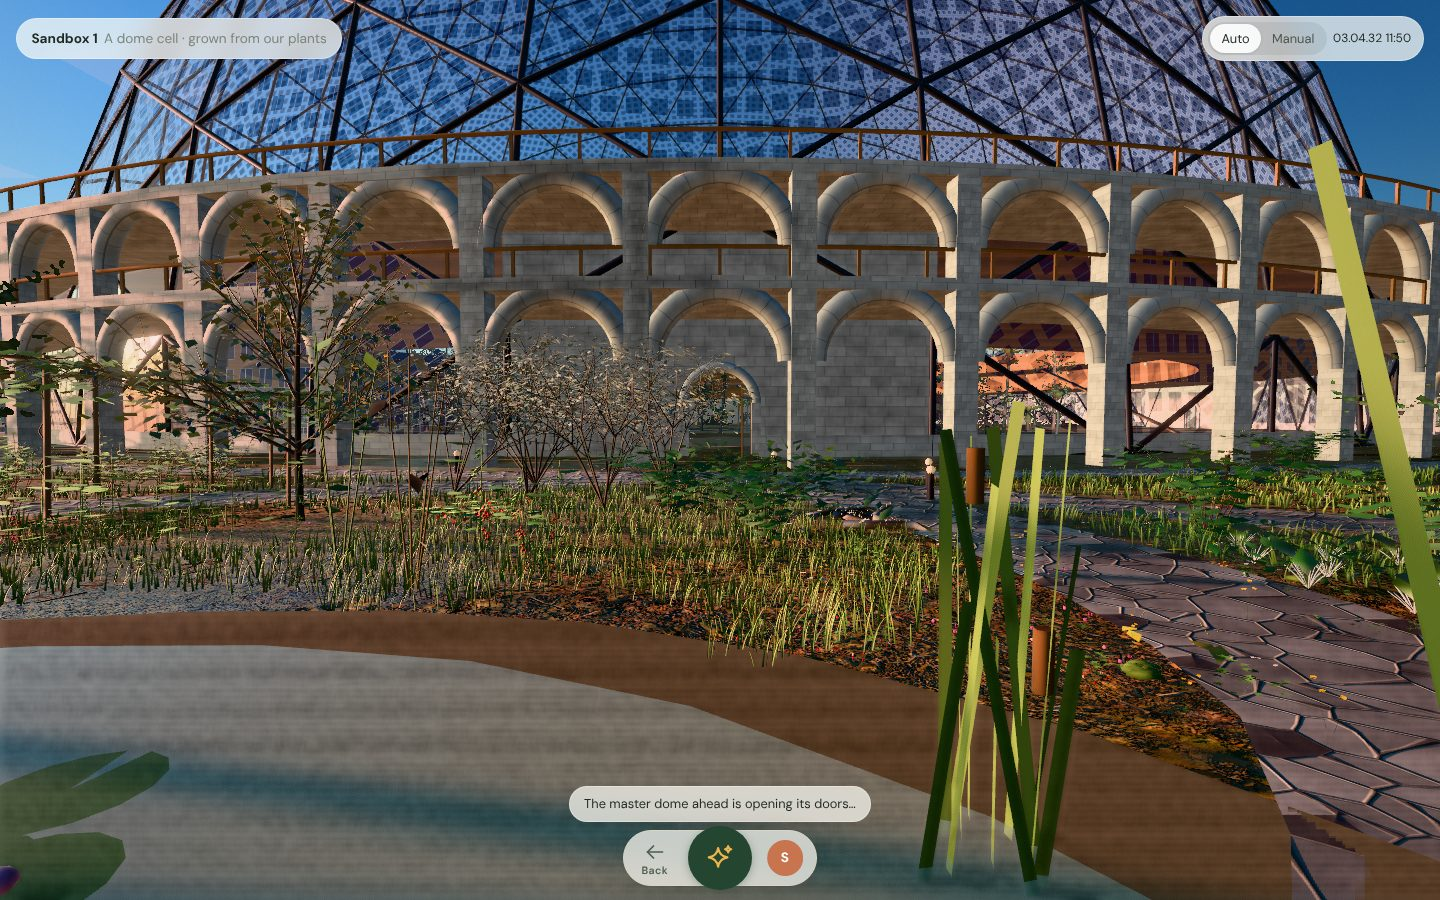
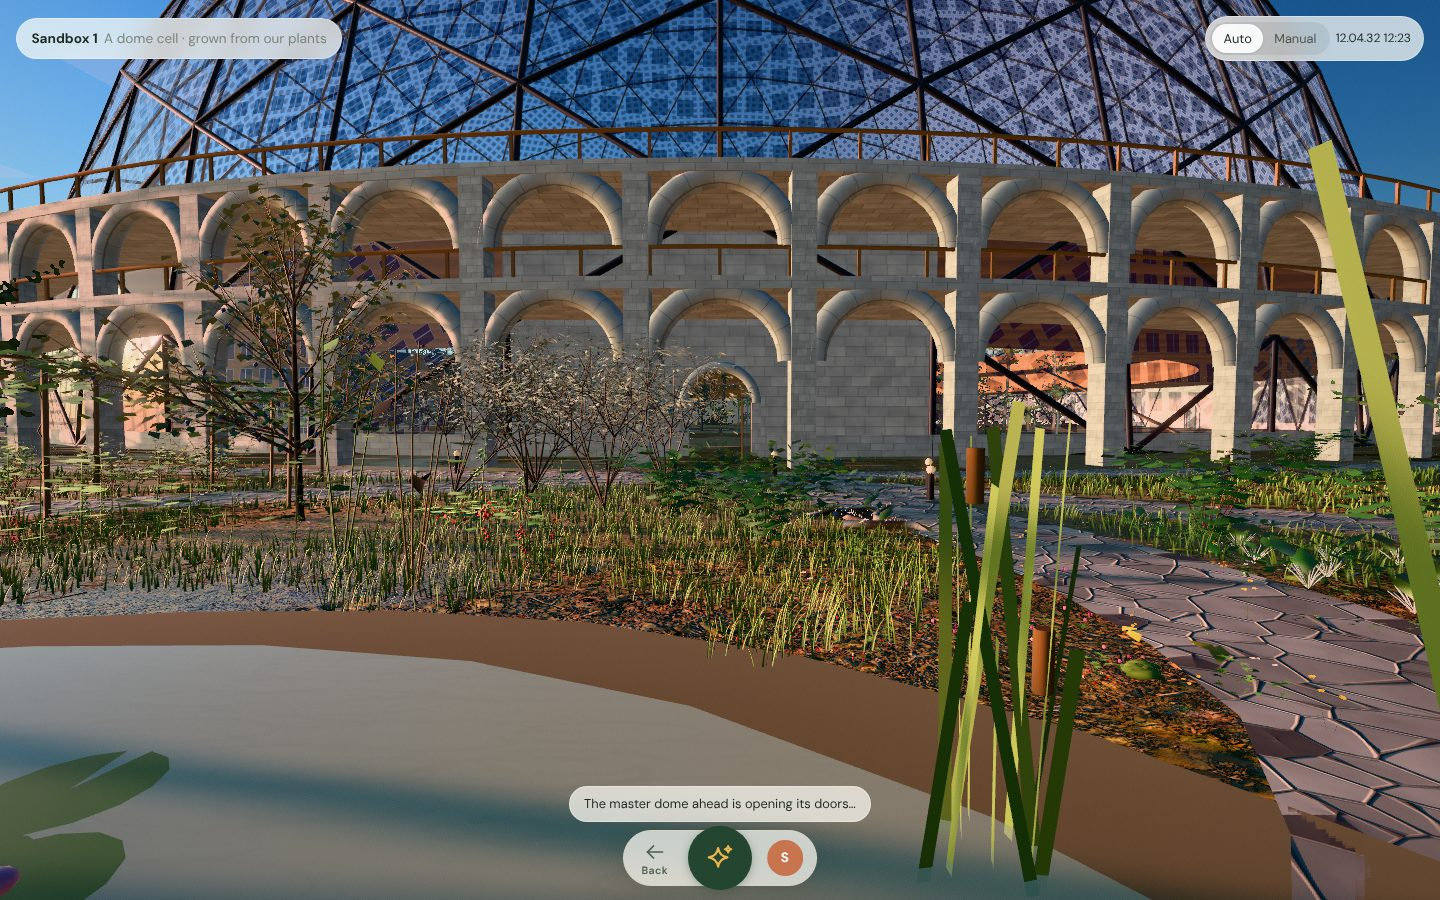
[1f0c6f79] Sandbox 1 at 8° retaken after the contact shadows' fix: the pond clean on head
Intent: 1f0c6f79-c323-478c-bc40-d9090abf875a

Claude-Session: https://claude.ai/code/session_01E9zxn4etULqqUoimG8sr51

diff --git a/intent-work/1f0c6f79/shots/README.md b/intent-work/1f0c6f79/shots/README.md
@@ -24,5 +24,7 @@ Not this intent's: the workshop container and, at times, the walker are not draw
 - `s1-<noon|sun8>-main.jpg`, `s1-<noon|sun8>-head.jpg`: main and head (head `?finish=desktop`, on WebGPURenderer's WebGL 2
   fallback: no AO, MSAA), each after 240 s at the view.
 - At 8° the warm low key on the colonnade and the cool fill hold as on main; head's grade a little richer, the grass's
-  feet shadowed. Open: the pond shows horizontal streaks on head, not on main (the water's screen read under the pipeline,
-  or the grade's grain over it): to fix before Proposal.
+  feet shadowed. The pond showed horizontal streaks on head in the first take: the contact shadows, laid over the
+  finished picture, shaded the bed beneath the water (gone with `?finish=-contact`). Fixed in 0a67666b (contact shadows on
+  the sun's light in the lighting, never on what is see-through; none on the fallback): `s1-sun8-*.jpg` retaken after it,
+  the pond clean.
